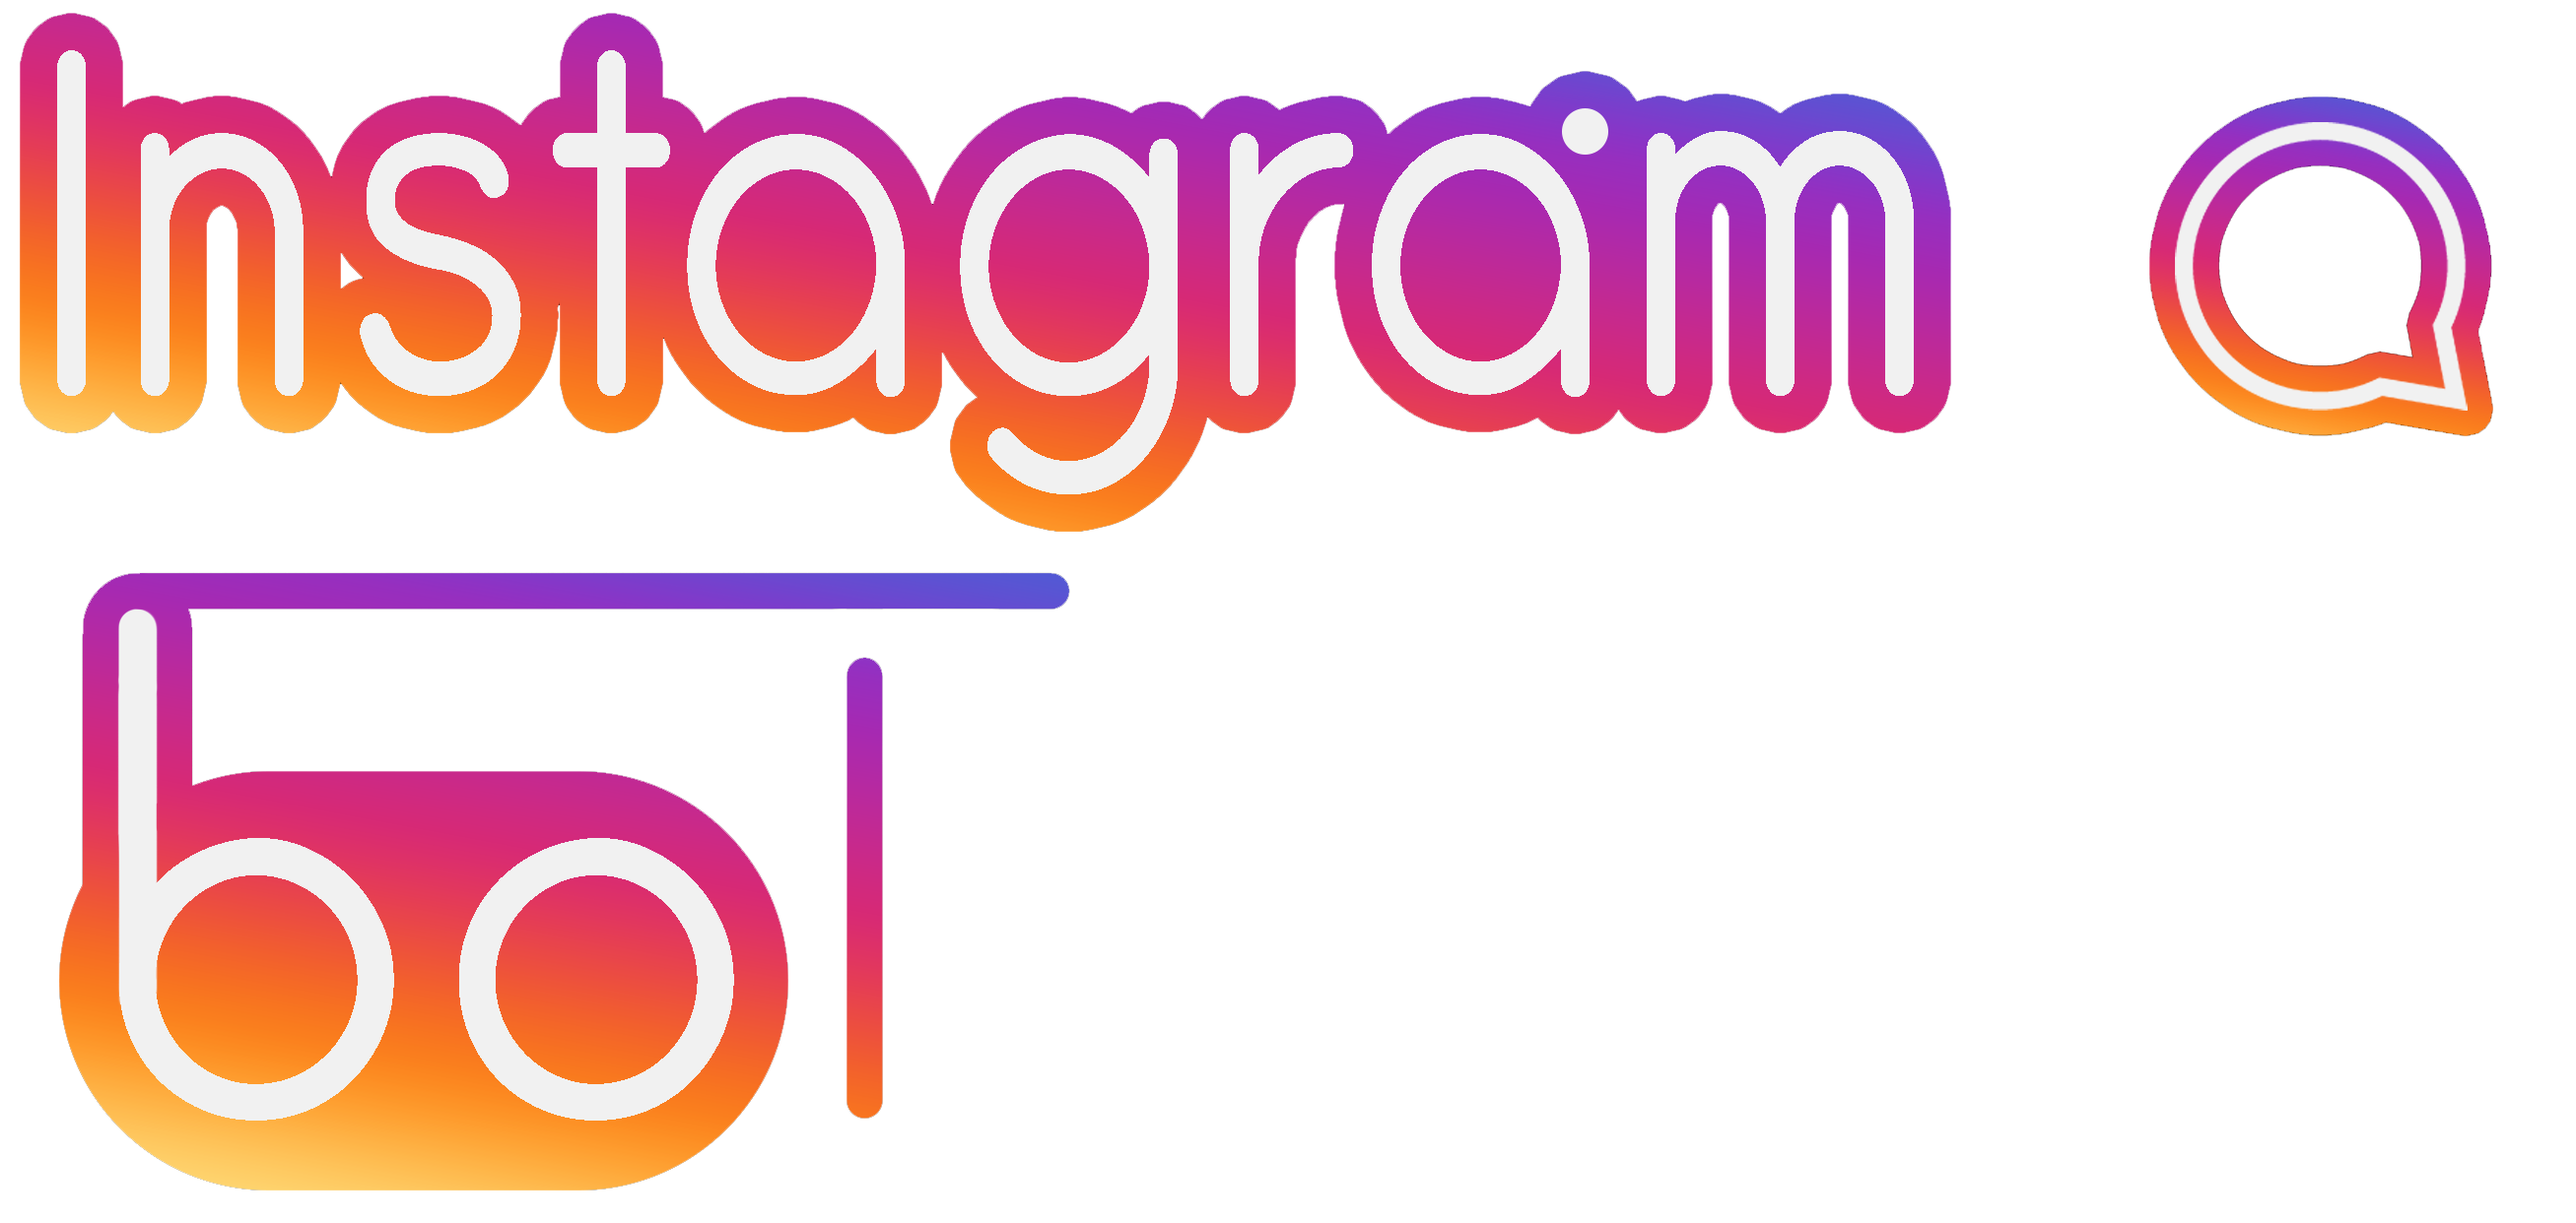
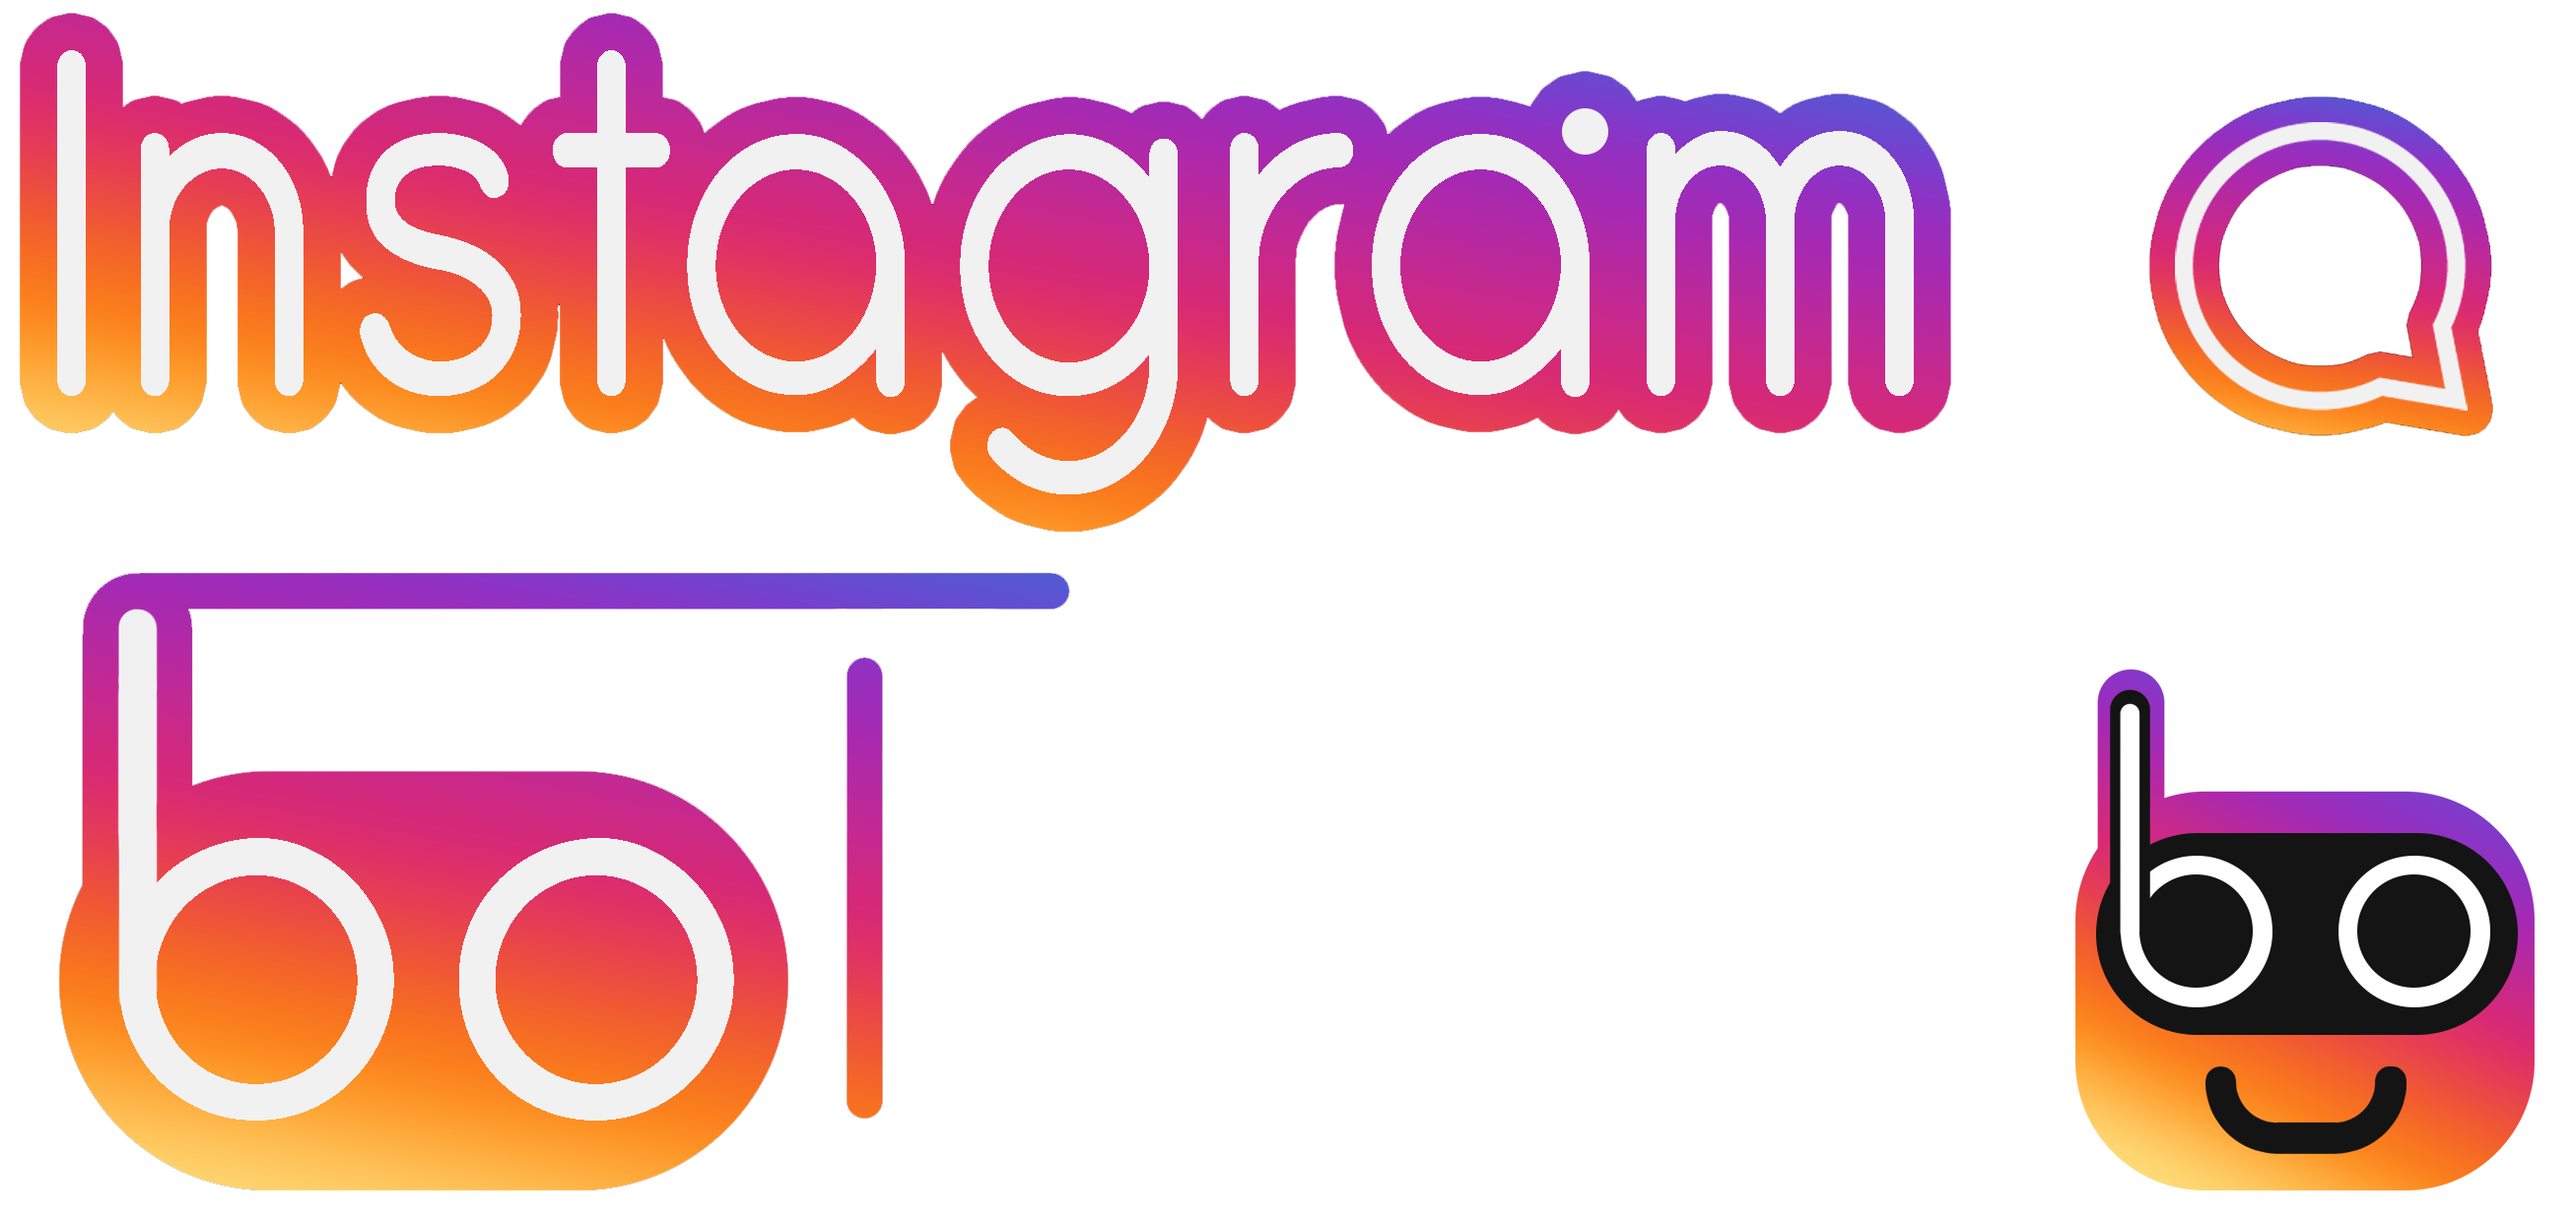
Update
°Bug fixes
°New icon added
°New function added
 -Run the animation only at the beginning of the program

Changed region(s): [[0.8057, 0.5507, 0.9916, 0.9791]]

diff --git a/python-files_pt/interface.py b/python-files_pt/interface.py
@@ -4,6 +4,7 @@ from backend import bot
 from selenium import webdriver
 import threading
 from PIL import ImageTk, Image
+import sys
 
 palet = [{'bg':'#141414', 'fg':'#cfcfcf', 'exit_bg':'#ff2f2f', 'df_bg':'#676767', 'wd_bg':'#1d1d1d', 'bd':'#4d4d4d'}]
 cont_maximizado = 0
@@ -12,6 +13,9 @@ v_comment = None
 width, height = 700, 550
 quant_comentarios = None
 click_x, click_y = 0, 0
+
+for param in sys.argv:
+    print(param)
 
 def managment_window():
     global cont_maximizado;global maximizar;global top;global fechar;global maximize;global resize_maximize;global minimizar;global palet;global click_x;global click_y
@@ -86,7 +90,7 @@ def managment_window():
     move_area.bind('<B1-Motion>', move_window)
 
 root = Tk()
-root.iconbitmap('C:\\Users\\Paulo Thiago\\Documents\\MeusProjetos\\InstagramBot\\python-files_pt\\media\\instagram.ico')
+root.iconbitmap('C:\\Users\\Paulo Thiago\\Documents\\MeusProjetos\\InstagramBot\\python-files_pt\\media\\mascote.ico')
 root.attributes('-alpha', 0.0)
 root.title('Instagram Bot')
 root.config(bg = palet[0]['bg'])
@@ -202,8 +206,8 @@ def about():
 
 managment_window()
 
-ig = PhotoImage(file = 'C:\\Users\\Paulo Thiago\\Documents\\MeusProjetos\\InstagramBot\\python-files_pt\\media\\instagram.png')
-ig = ig.subsample(13, 13)
+ig = PhotoImage(file = 'C:\\Users\\Paulo Thiago\\Documents\\MeusProjetos\\InstagramBot\\python-files_pt\\media\\mascote.png')
+ig = ig.subsample(64, 64)
 
 warning = PhotoImage(file = 'C:\\Users\\Paulo Thiago\\Documents\\MeusProjetos\\InstagramBot\\python-files_pt\\media\\warning.png')
 warning = warning.subsample(4, 4)
@@ -240,7 +244,7 @@ def start():
         for ani in range(0, 4):
             w1_lbl.config(text = f'O bot está sendo iniciado{" ." * ani}')
             top.update()
-            sleep(.3)
+            sleep(.4)
 
     w1_lbl.config(text = 'O bot está sendo iniciado')
     bot(root, top, fechar, warning_lbl, w_lbl, w1_lbl, palet)
@@ -926,13 +930,11 @@ def program():
 
 def welcome_interface():
     global ig_wallp
-    # global welcome
     global avançar
     global ig_wallp_lbl
-    # global a
     global ani_cont
-    # welcome = Frame(top, bg = palet[0]['bg'])
-    # welcome.pack(anchor = CENTER, side = RIGHT)
+    global param
+
     ani_cont = None
 
     def animation1():
@@ -1000,11 +1002,13 @@ def welcome_interface():
     avançar.bind('<Leave>', com_leave)
     avançar.bind_all('<Shift-Return>', nxt)
 
-    # threading.Thread(target = animation1).start()
-    animation1()
+    if param != 'False':
+        animation1()
 
-    # a = welcome = Frame(top, bg = palet[0]['bg'], height = 80)
-    # a.pack(anchor = S, side = BOTTOM)
+if param != 'False':
+    welcome_interface()
+else:
+    welcome_interface()
+    program()
 
-welcome_interface()
 top.mainloop()

diff --git a/python-files_pt/backend/__init__.py b/python-files_pt/backend/__init__.py
@@ -247,12 +247,12 @@ def bot(main_window, window, x, imagem_aviso, mensagem_aviso, mensagem_iniciando
 
         def parar(event = ''):
             global driver
+            main_window.destroy()
             try:
                 driver.close()
             except:
                 pass
-            main_window.destroy()
-            os.system('python python-files_pt\\interface.py')
+            os.system('python python-files_pt\\interface.py False')
 
 
         stop1 = PhotoImage(file = 'C:\\Users\\Paulo Thiago\\Downloads\\scripts\\python_curso_em_video\\Exercicios e Ideias\\Exercicios extras\\InstagramBot\\python-files_pt\\media\\stop_1.png')
